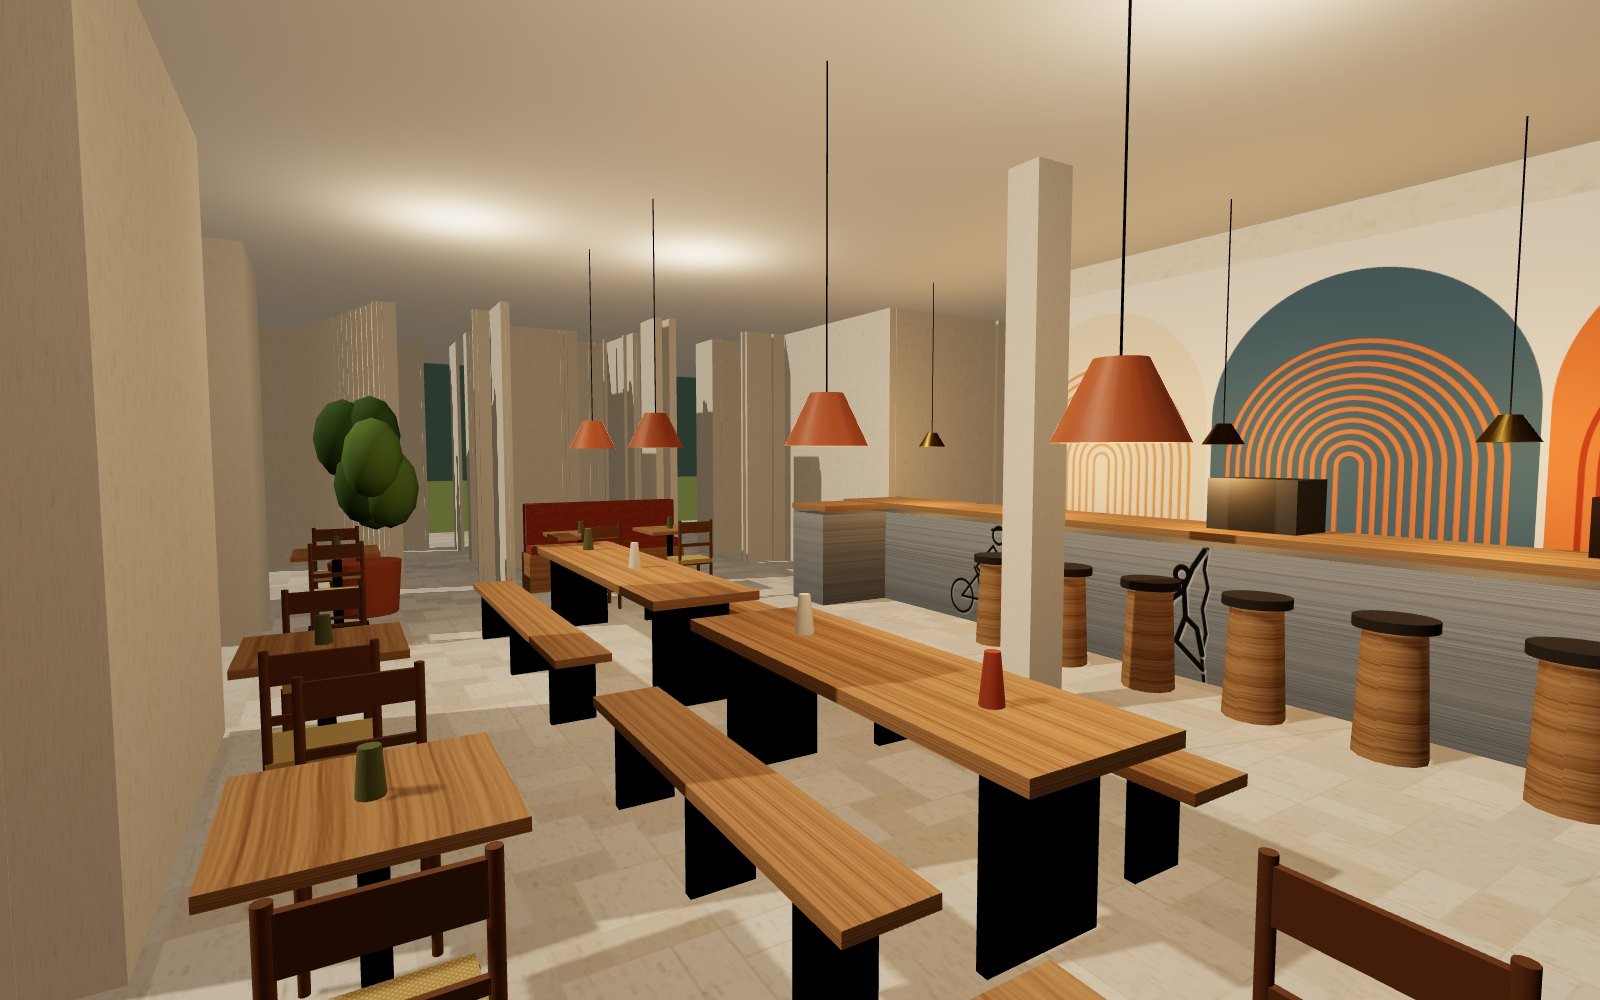
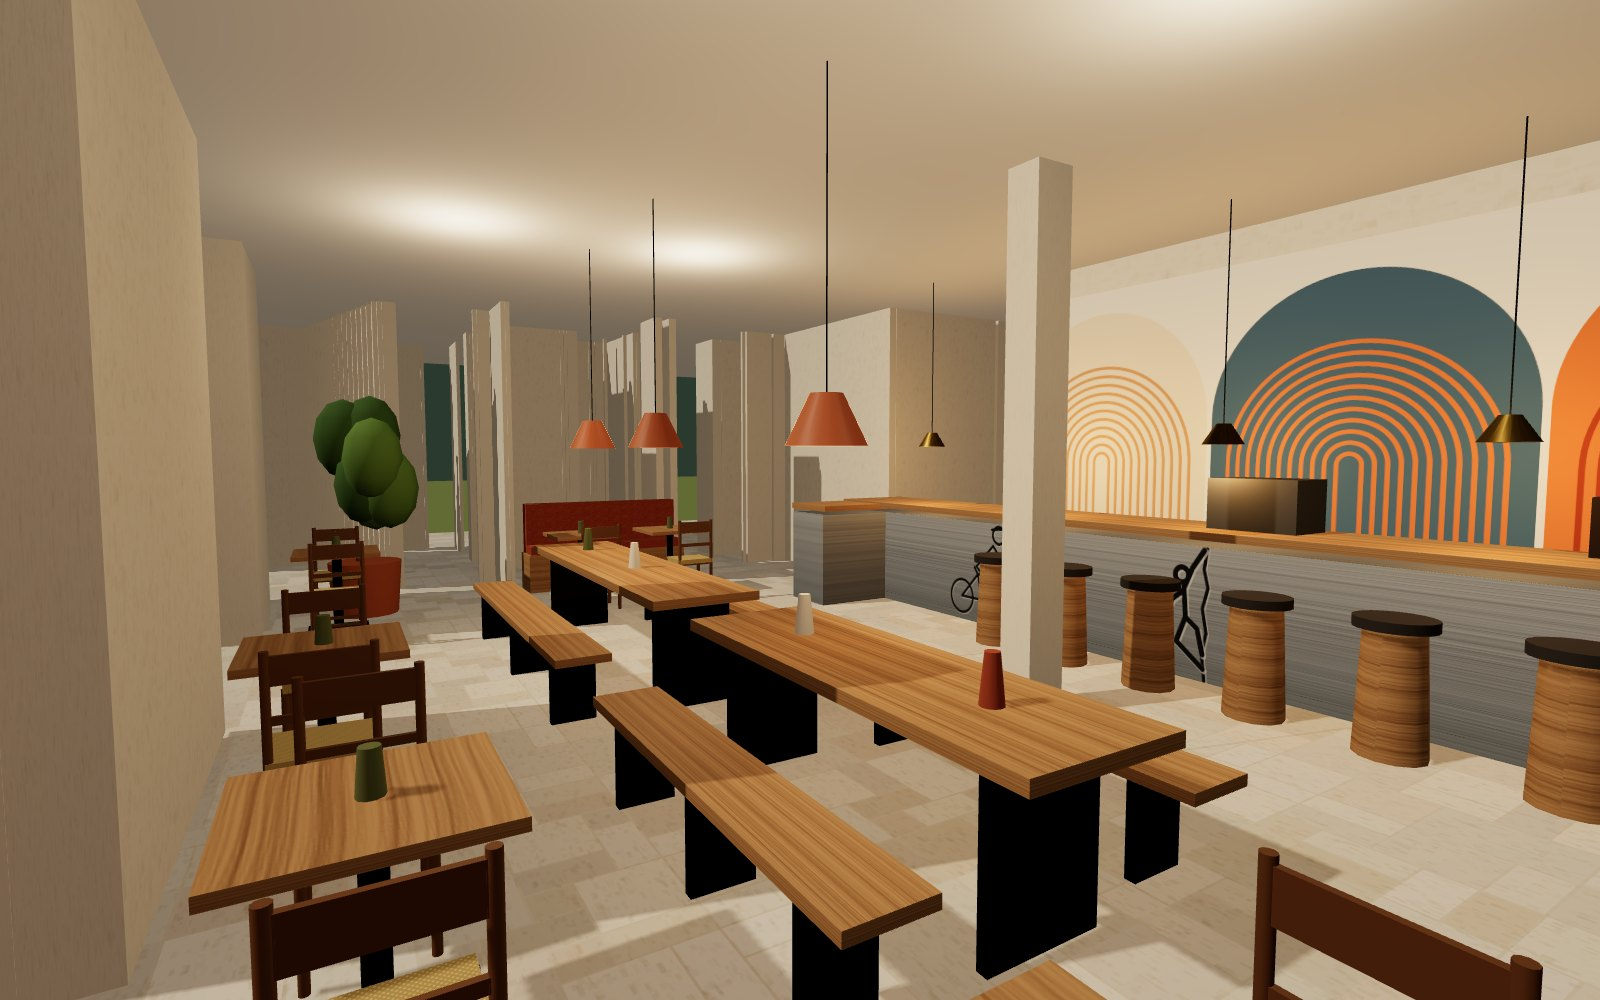
Sala prova: lampade sopra il tavolo più piccolo
Claude-Session: https://claude.ai/code/session_01QZXxqty357DcebAAL5Vpaf

Changed region(s): [[0.6562, 0.341, 0.75, 0.465], [0.5938, 0.651, 0.7188, 0.775]]

diff --git a/render-3d/sala-tavoli-misti/prova-tavolo-piu-piccolo/pianoterra.js b/render-3d/sala-tavoli-misti/prova-tavolo-piu-piccolo/pianoterra.js
@@ -374,7 +374,7 @@ else { box(P(210), P(1450), HS, HS + 0.06, P(840), P(1110), M('#e9e2d6', { trans
     for (const bz of [z0 - 0.4, z1 + 0.4]) { box(x0 + 0.1, x1 - 0.1, 0.42, 0.47, bz - 0.17, bz + 0.17, oakM);
       for (const x of [x0 + 0.35, (x0 + x1) / 2, x1 - 0.4]) { box(x, x + 0.05, 0, 0.42, bz - 0.14, bz + 0.14, ironM); } }
     for (let x = x0 + 0.6; x < x1 - 0.4; x += 1.3) cyl(x, (z0 + z1) / 2, 0.05, 0.78, 0.98, M(tc[Math.floor(rnd() * 3)]), 12, 0.03);
-    for (let x = x0 + 0.8; x < x1; x += 1.6) { cyl(x, (z0 + z1) / 2, 0.004, 1.95, HS, M('#111'), 6); const sh = new THREE.Mesh(new THREE.CylinderGeometry(0.08, 0.2, 0.25, 24, 1, true), M('#b9673d', { side: THREE.DoubleSide, roughness: 0.5 })); sh.position.set(x, 1.85, (z0 + z1) / 2); scene.add(sh); const l = new THREE.PointLight('#ffc98a', 1.0, 0, 2); l.position.set(x, 1.7, (z0 + z1) / 2); scene.add(l); } };
+    for (let x = x0 + 0.8; x < x1 - 0.4; x += 1.6) { cyl(x, (z0 + z1) / 2, 0.004, 1.95, HS, M('#111'), 6); const sh = new THREE.Mesh(new THREE.CylinderGeometry(0.08, 0.2, 0.25, 24, 1, true), M('#b9673d', { side: THREE.DoubleSide, roughness: 0.5 })); sh.position.set(x, 1.85, (z0 + z1) / 2); scene.add(sh); const l = new THREE.PointLight('#ffc98a', 1.0, 0, 2); l.position.set(x, 1.7, (z0 + z1) / 2); scene.add(l); } };
   longT(775, 1035, 592, 650); longT(1080, 1270, 592, 650);  // one big, one a bit smaller  // two equal long tables, moved away from the bar and clear of the side door
   // the side door on the east wall stays free: emergency exit sign + clear floor path
   { const sg = new THREE.Mesh(new THREE.PlaneGeometry(0.6, 0.25), new THREE.MeshBasicMaterial({ map: cv(240, 100, (g, w, h) => { g.fillStyle = '#1c9b4a'; g.fillRect(0, 0, w, h); g.fillStyle = '#fff'; g.font = 'bold 26px Arial'; g.textAlign = 'center'; g.fillText('USCITA', w / 2, 42); g.fillText('DI SICUREZZA', w / 2, 78); }), toneMapped: false }));
